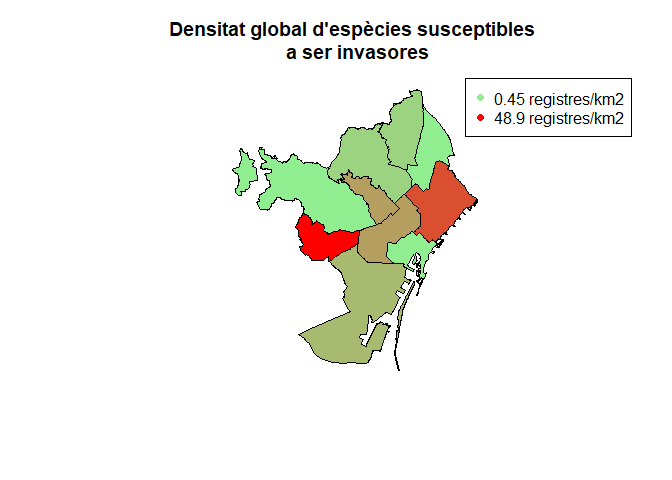
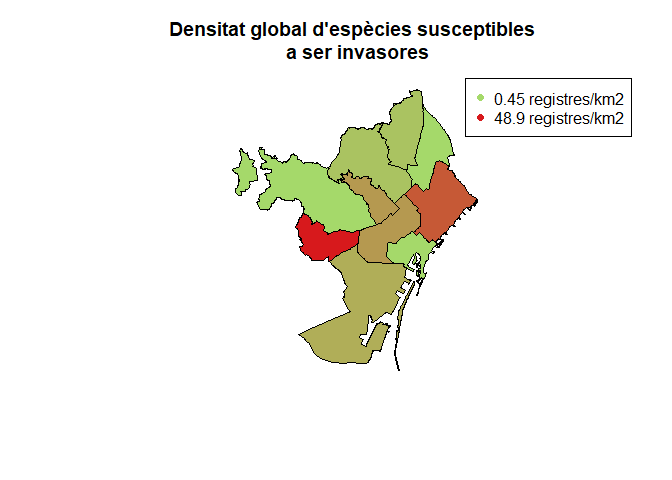
add

Changed region(s): [[0.3438, 0.1875, 0.6875, 0.5625], [0.5625, 0.4688, 0.6562, 0.5625], [0.6875, 0.1875, 0.7188, 0.2188]]

diff --git a/2CalculDensitats.md b/2CalculDensitats.md
@@ -91,7 +91,7 @@ Calculem la densitat total de registres per km2:
 print(paste("El nombre de registres actual al Barcelonès (En data:", Sys.Date(), ") és: ", round(nrow(inat_obs_pcsp_sf)/(area(barcelones_sp)/1000000),3), "registres/km2"))
 ```
 
-    ## [1] "El nombre de registres actual al Barcelonès (En data: 2021-12-16 ) és:  9.147 registres/km2"
+    ## [1] "El nombre de registres actual al Barcelonès (En data: 2021-12-20 ) és:  9.147 registres/km2"
 
 ### Densitat total per espècie
 
@@ -186,7 +186,7 @@ districte. Faig una funció per a comptar registres per area
 ``` r
 num_registres <- function(area, inatdf) {
   inat_obs_pcsp_sf  <- inatdf %>% st_intersection(area)
-  print(nrow(inat_obs_pcsp_sf))
+  return(nrow(inat_obs_pcsp_sf))
 } 
 ```
 
@@ -205,6 +205,8 @@ arees$registres<- as.numeric(c(num_registres(ciutatvella, inat_obs_sf),
 arees$registres[6] <- nrow(inat_obs_sf) - sum(arees$registres, na.rm = TRUE)
 arees$densitat.global <- arees$registres/arees$area
 ```
+
+Mirem el dataset resultant:
 
 ``` r
 arees
@@ -245,14 +247,111 @@ arees[order(arees$densitat.global),]
 ``` r
 #library(RColorBrewer)
 
-rbPal <- colorRampPalette(c('lightgreen','red'))
+rbPal <- colorRampPalette(c('#a5d96a','#d7191c'))
 datcol <- rbPal(10)[as.numeric(cut(arees$densitat.global,breaks = 10))]
 
 plot(districtes, col=datcol, main = "Densitat global d'espècies susceptibles \n a ser invasores")
-legend('topright', legend=c("0.45 registres/km2", "48.9 registres/km2"), col=c("lightgreen","red"), pch=16)
+legend('topright', legend=c("0.45 registres/km2", "48.9 registres/km2"), col=c("#a5d96a","#d7191c"), pch=16)
 ```
 
 ![](2CalculDensitats_files/figure-gfm/unnamed-chunk-17-1.png)<!-- -->
+
+### Mapa amb color segons densitat per espècie
+
+Cal calcular la densitat a cada districte i creear columnes dins del
+dataframe ‘arees’. Preparo una funció per a poder contar qualsevol
+espècie per als districtes de Barcelona:
+
+``` r
+num_registres_especie <- function(especie) {
+  registres_sp <- as.numeric(c(num_registres(ciutatvella, inat_obs_sf[inat_obs_sf$taxon.name==especie,]),
+                    num_registres(eixample, inat_obs_sf[inat_obs_sf$taxon.name==especie,]),
+                    num_registres(santsmontjuic, inat_obs_sf[inat_obs_sf$taxon.name==especie,]),
+                    num_registres(lescorts, inat_obs_sf[inat_obs_sf$taxon.name==especie,]),
+                    num_registres(sarriasantgervasi, inat_obs_sf[inat_obs_sf$taxon.name==especie,]),
+                    NA,
+                    num_registres(hortaguinardo, inat_obs_sf[inat_obs_sf$taxon.name==especie,]),
+                    num_registres(noubarris, inat_obs_sf[inat_obs_sf$taxon.name==especie,]),
+                    num_registres(santandreu, inat_obs_sf[inat_obs_sf$taxon.name==especie,]),
+                    num_registres(santmarti, inat_obs_sf[inat_obs_sf$taxon.name==especie,])))
+
+  registres_sp[6] <- nrow(inat_obs_sf[inat_obs_sf$taxon.name==especie,]) - sum(registres_sp, na.rm = TRUE)
+  
+  return(registres_sp)
+} 
+```
+
+Per exemple, provem amb Lantana camara:
+
+``` r
+num_registres_especie("Lantana camara")
+```
+
+Ara calculem l’àrea:
+
+``` r
+round(num_registres_especie("Lantana camara")/arees$area, 2)
+```
+
+Calculem les densitats per a totes les espècies seleccionades
+
+``` r
+d_aptenia <- num_registres_especie("Mesembryanthemum cordifolium")/arees$area
+d_dichondra <- num_registres_especie("Dichondra micrantha")/arees$area
+d_mirabilis <- num_registres_especie("Mirabilis jalapa")/arees$area
+d_ligustrum <- num_registres_especie("Ligustrum lucidum")/arees$area
+d_kalanchoe <- num_registres_especie("Kalanchoe × houghtonii")/arees$area
+d_lantana <- num_registres_especie("Lantana camara")/arees$area
+d_cenchrus <- num_registres_especie("Cenchrus longisetus")/arees$area
+d_senecio <- num_registres_especie("Senecio angulatus")/arees$area
+d_ipomoea <- num_registres_especie("Ipomoea indica")/arees$area
+```
+
+Així podem entrar aquest valor directament al gràfic
+
+``` r
+rbPal <- colorRampPalette(c('#a5d96a','#d7191c'))
+
+par(mfrow=c(3,3))
+
+datcol <- rbPal(10)[as.numeric(cut(d_aptenia,breaks = 10))]
+plot(districtes, col=datcol, main = "Aptenia cordifolia \n per km2")
+legend('bottomleft', legend=c(round(min(d_aptenia),2), round(max(d_aptenia),2)), col=c("#a5d96a","#d7191c"), pch=16)
+
+datcol <- rbPal(10)[as.numeric(cut(d_dichondra,breaks = 10))]
+plot(districtes, col=datcol, main = "Dichondra micrantha \n per km2")
+legend('bottomleft', legend=c(round(min(d_dichondra),2), round(max(d_dichondra),2)), col=c("#a5d96a","#d7191c"), pch=16)
+
+datcol <- rbPal(10)[as.numeric(cut(d_mirabilis,breaks = 10))]
+plot(districtes, col=datcol, main = "Mirabilis jalapa \n per km2")
+legend('bottomleft', legend=c(round(min(d_mirabilis),2), round(max(d_mirabilis),2)), col=c("#a5d96a","#d7191c"), pch=16)
+
+datcol <- rbPal(10)[as.numeric(cut(d_ligustrum,breaks = 10))]
+plot(districtes, col=datcol, main = "Lantana camara \n per km2")
+legend('bottomleft', legend=c(round(min(d_ligustrum),2), round(max(d_ligustrum),2)), col=c("#a5d96a","#d7191c"), pch=16)
+
+datcol <- rbPal(10)[as.numeric(cut(d_kalanchoe,breaks = 10))]
+plot(districtes, col=datcol, main = "Kalanchoe × houghtonii \n per km2")
+legend('bottomleft', legend=c(round(min(d_kalanchoe),2), round(max(d_kalanchoe),2)), col=c("#a5d96a","#d7191c"), pch=16)
+
+datcol <- rbPal(10)[as.numeric(cut(d_lantana,breaks = 10))]
+plot(districtes, col=datcol, main = "Lantana camara \n per km2")
+legend('bottomleft', legend=c(round(min(d_lantana),2), round(max(d_lantana),2)), col=c("#a5d96a","#d7191c"), pch=16)
+
+datcol <- rbPal(10)[as.numeric(cut(d_cenchrus,breaks = 10))]
+plot(districtes, col=datcol, main = "Cenchrus longisetus \n per km2")
+legend('bottomleft', legend=c(round(min(d_cenchrus),2), round(max(d_cenchrus),2)), col=c("#a5d96a","#d7191c"), pch=16)
+
+datcol <- rbPal(10)[as.numeric(cut(d_senecio,breaks = 10))]
+plot(districtes, col=datcol, main = "Senecio angulatus \n per km2")
+legend('bottomleft', legend=c(round(min(d_senecio),2), round(max(d_senecio),2)), col=c("#a5d96a","#d7191c"), pch=16)
+
+datcol <- rbPal(10)[as.numeric(cut(d_ipomoea,breaks = 10))]
+plot(districtes, col=datcol, main = "Ipomoea indica \n per km2")
+legend('bottomleft', legend=c(round(min(d_ipomoea),2), round(max(d_ipomoea),2)), col=c("#a5d96a","#d7191c"), pch=16)
+```
+
+![](2CalculDensitats_files/figure-gfm/unnamed-chunk-22-1.png)<!-- -->
 
 ### Mapa registres iNaturalist
 
